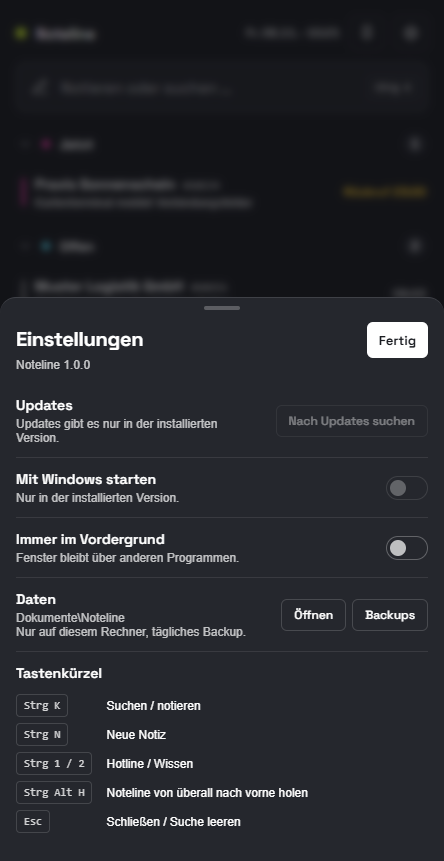
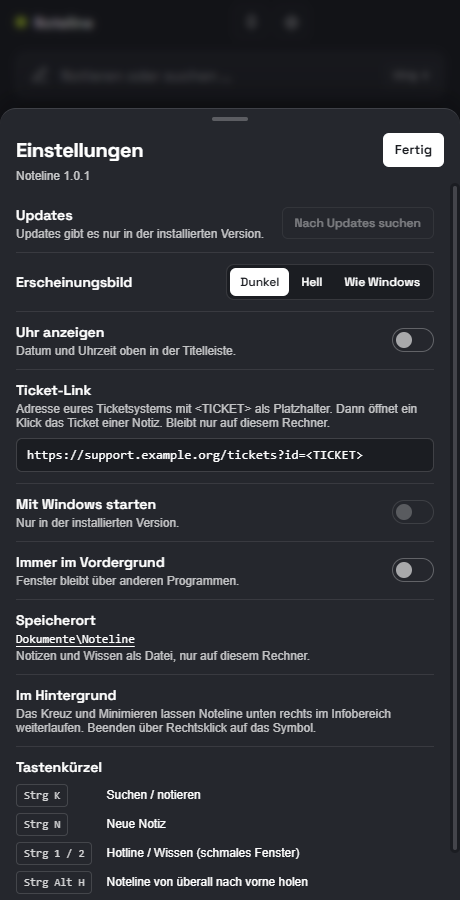
docs: README, Screenshots und Changelog für 1.1.0

diff --git a/scripts/screenshot.js b/scripts/screenshot.js
@@ -19,7 +19,7 @@ const demo = {
   version: 2,
   notizen: [
     n('d1', 'Praxis Sonnenschein', '#10234', 'Kartenterminal meldet Verbindungsfehler\nNeustart Konnektor besprochen', { prio: 'hoch', erstellt: h(8, 40), rueckruf: h(23, 0), erinnertFuer: h(23, 0) }),
-    n('d2', 'Muster Logistik GmbH', '#10251', 'Drucker im Lager druckt leere Seiten', { erstellt: h(9, 15) }),
+    n('d2', 'Muster Logistik GmbH', '#10251', 'Drucker im Lager druckt leere Seiten\nTreiber neu installiert, Testseite ok\nKunde meldet sich, falls es wieder auftritt', { erstellt: h(9, 15), telefon: '+49 123 4567890' }),
     n('d3', 'Beispiel & Söhne', '', 'Fragt nach Zugang für neue Mitarbeiterin', { erstellt: tag(-1, 14) }),
     n('d4', 'Café Morgenrot', '#10198', 'Wartet auf Rückmeldung vom Hersteller', { status: 'wartet', erstellt: tag(-2, 11) }),
     n('d5', 'Stadtbibliothek Nord', '#10177', 'Passwort zurückgesetzt, Anmeldung klappt', { status: 'erledigt', erstellt: tag(-1, 10) }),
@@ -38,16 +38,29 @@ const demo = {
 const ziel = path.join(__dirname, '..', 'docs');
 fs.mkdirSync(ziel, { recursive: true });
 
-for (const tab of ['hotline', 'wissen', 'einstellungen']) {
+// Name → Ansicht, Fenstergröße, Erscheinungsbild
+const AUFNAHMEN = [
+  { name: 'hotline', tab: 'hotline', groesse: '460x900', theme: 'dunkel' },
+  { name: 'wissen', tab: 'wissen', groesse: '460x900', theme: 'dunkel' },
+  { name: 'einstellungen', tab: 'einstellungen', groesse: '460x900', theme: 'dunkel' },
+  { name: 'breit', tab: 'notiz', groesse: '880x560', theme: 'dunkel' },
+  { name: 'breit-hell', tab: 'hotline', groesse: '880x560', theme: 'hell' },
+];
+const nur = process.argv.slice(2);
+
+for (const a of AUFNAHMEN.filter(x => !nur.length || nur.includes(x.name))) {
   const ordner = fs.mkdtempSync(path.join(os.tmpdir(), 'noteline-demo-'));
   try {
     fs.writeFileSync(path.join(ordner, 'daten.json'), JSON.stringify(demo));
-    const datei = path.join(ziel, `screenshot-${tab}.png`);
+    fs.writeFileSync(path.join(ordner, 'einstellungen.json'), JSON.stringify({ ticketLink: 'https://support.example.org/tickets?id=<TICKET>' }));
+    const datei = path.join(ziel, `screenshot-${a.name}.png`);
+    fs.rmSync(datei, { force: true }); // alte Aufnahme darf nicht als Erfolg zählen
     const r = spawnSync(electron, ['.'], {
       cwd: path.join(__dirname, '..'), stdio: 'inherit', timeout: 60000,
-      env: { ...process.env, NOTELINE_DATA_DIR: ordner, NOTELINE_SCREENSHOT: datei, NOTELINE_SCREENSHOT_TAB: tab },
+      env: { ...process.env, NOTELINE_DATA_DIR: ordner, NOTELINE_SCREENSHOT: datei, NOTELINE_SCREENSHOT_TAB: a.tab,
+        NOTELINE_SCREENSHOT_SIZE: a.groesse, NOTELINE_SCREENSHOT_THEME: a.theme },
     });
-    if (r.status !== 0 || !fs.existsSync(datei)) throw new Error(`Screenshot ${tab} fehlgeschlagen (Code ${r.status})`);
+    if (r.status !== 0 || !fs.existsSync(datei)) throw new Error(`Screenshot ${a.name} fehlgeschlagen (Code ${r.status})`);
     console.log('✓', path.relative(process.cwd(), datei));
   } finally {
     fs.rmSync(ordner, { recursive: true, force: true });

diff --git a/README.md b/README.md
@@ -13,9 +13,7 @@ Alles bleibt lokal auf dem eigenen Rechner.
 ![Windows](https://img.shields.io/badge/Windows-10%20%7C%2011-0078D4)
 [![Lizenz: MIT](https://img.shields.io/badge/Lizenz-MIT-bee600)](LICENSE)
 
-<img src="docs/screenshot-hotline.png" width="300" alt="Hotline-Ansicht mit Notizen in den Spuren Jetzt, Offen, Wartet und Erledigt">
-&nbsp;
-<img src="docs/screenshot-wissen.png" width="300" alt="Wissen-Ansicht mit Vorlage und kopierbaren Werten">
+<img src="docs/screenshot-breit.png" width="760" alt="Breite Ansicht: links die Notizen in den Spuren Jetzt, Offen, Wartet und Erledigt, rechts eine geöffnete Anrufnotiz">
 
 </div>
 
@@ -37,14 +35,20 @@ Gespräch zu verlieren, und das wichtigste Nachschlagewissen immer mit einem Kli
    nicht signiert ist: **Weitere Informationen → Trotzdem ausführen**.
 
 Danach aktualisiert sich Noteline selbst: Die App prüft jede Stunde auf neue Versionen, lädt sie im Hintergrund
-und installiert sie per Klick auf *Jetzt neu starten* oder beim nächsten Beenden.
+und meldet sich per Windows-Benachrichtigung. Installiert wird per Klick auf *Jetzt neu starten*, beim Beenden
+oder still in einer Pause, wenn Noteline im Infobereich liegt und der PC 10 Minuten nicht benutzt wurde.
+Was sich geändert hat, steht im [Changelog](CHANGELOG.md) und bei jedem [Release](https://github.com/pascatotalx/noteline/releases).
 
 ## Funktionen
 
 ### Hotline
-- **Sofort mitschreiben:** Tippen und Enter drücken. `Kunde: Stichpunkt` füllt den Kunden gleich mit aus.
+- **Sofort mitschreiben:** Tippen und Enter drücken. `Kunde: Stichpunkt` füllt den Kunden gleich mit aus,
+  Telefonnummern und `#Ticketnummern` landen automatisch in ihren Feldern.
+- **Ticket mit einem Klick öffnen:** Einmal die Ticket-Adresse eures Systems hinterlegen, dann wird jede
+  Ticketnummer zum Link.
 - **Spuren statt Textwüste:** *Jetzt*, *Offen*, *Wartet*, *Erledigt*, mit Priorität und Ticketnummer.
-- **Rückruf-Erinnerung:** Windows-Benachrichtigung zum fälligen Zeitpunkt. Ein Klick öffnet die Notiz.
+- **Rückruf-Erinnerung:** Windows-Benachrichtigung zum fälligen Zeitpunkt, die stehen bleibt, bis du sie
+  wegklickst. Ein Klick öffnet die Notiz.
 - **Suche** über Kunde, Ticket, Telefon und Text.
 
 ### Wissen
@@ -52,7 +56,20 @@ und installiert sie per Klick auf *Jetzt neu starten* oder beim nächsten Beende
 - **Vorlagen:** Ein Wert wie `ping <IP> -n 4` bekommt ein Eingabefeld und liefert den fertigen Befehl.
 
 ### Bedienung
-- Schmales Fenster am rechten Bildschirmrand, optional immer im Vordergrund, optional mit Windows starten.
+- **Passt sich dem Fenster an:** schmal und hoch mit Reitern, breit und niedrig mit zwei Spalten
+  (Notizen links, Wissen oder die offene Notiz rechts).
+- **Läuft im Hintergrund:** Das Kreuz und Minimieren schicken Noteline in den Infobereich unten rechts,
+  Erinnerungen laufen weiter. Beenden über Rechtsklick auf das Symbol.
+- **Hell, Dunkel oder wie Windows**, optional immer im Vordergrund, optional mit Windows starten.
+
+<p align="center">
+<img src="docs/screenshot-hotline.png" width="250" alt="Schmale Ansicht mit Notizliste">
+&nbsp;
+<img src="docs/screenshot-wissen.png" width="250" alt="Wissen-Ansicht mit Vorlage und kopierbaren Werten">
+&nbsp;
+<img src="docs/screenshot-einstellungen.png" width="250" alt="Einstellungen mit Updates, Erscheinungsbild und Ticket-Link">
+</p>
+<p align="center"><img src="docs/screenshot-breit-hell.png" width="600" alt="Breite Ansicht im hellen Erscheinungsbild"></p>
 
 | Kürzel | Aktion |
 |---|---|
@@ -66,7 +83,8 @@ und installiert sie per Klick auf *Jetzt neu starten* oder beim nächsten Beende
 
 Noteline ist für Notizen mit Kundendaten gemacht und behandelt sie entsprechend:
 
-- Alle Daten liegen **nur lokal** in `Dokumente\Noteline\` (`daten.json` und tägliche Backups der letzten 30 Tage).
+- Alle Daten liegen **nur lokal** in `Dokumente\Noteline\`: `daten.json` (Notizen und Wissen),
+  `einstellungen.json` und im Unterordner `Backups` automatische Tagessicherungen der letzten 30 Tage.
 - **Kein Upload, keine Cloud, keine Telemetrie.** Die einzige Verbindung nach außen ist die Update-Prüfung
   bei GitHub, und dabei werden keine Daten gesendet.
 - Deinstallieren löscht keine Daten.

diff --git a/CHANGELOG.md b/CHANGELOG.md
@@ -3,6 +3,32 @@
 Alle nennenswerten Änderungen an Noteline. Format nach [Keep a Changelog](https://keepachangelog.com/de/1.1.0/),
 Versionierung nach [Semantic Versioning](https://semver.org/lang/de/).
 
+## [1.1.0] – 2026-11-06
+
+Angepasst an die Arbeit neben Ticketsystem und Telefonie: breites, niedriges Fenster, schnelleres Erfassen,
+Noteline läuft dauerhaft im Hintergrund.
+
+### Neu
+- **Zweispaltige Ansicht** ab 760 px Breite: Notizen links, rechts das Wissen oder die geöffnete Notiz in voller
+  Höhe. Die Suche durchsucht beide Spalten.
+- **Telefon- und Ticketnummern werden erkannt:** `+49 123 4567890 Kunde #12345: Stichpunkt` füllt Telefon,
+  Ticket, Kunde und Text in einem Schritt.
+- **Ticket-Link:** In den Einstellungen die Adresse des Ticketsystems mit `<TICKET>` hinterlegen, dann öffnet
+  ein Klick das Ticket einer Notiz im Browser. Die Adresse bleibt nur auf diesem Rechner.
+- **Hell, Dunkel oder wie Windows** in den Einstellungen, inklusive Titelleiste.
+- **Läuft im Hintergrund:** Das Kreuz und Minimieren schicken Noteline in den Infobereich unten rechts. Klick
+  auf das Symbol öffnet es wieder, Rechtsklick bietet *Nach Updates suchen* und *Beenden*.
+- **Windows-Benachrichtigung bei neuen Updates.** Installiert wird per Klick, beim Beenden oder still in einer
+  Pause (Noteline im Infobereich, 10 Minuten keine Eingabe am PC). Danach startet Noteline wieder im Hintergrund.
+- Eigene, flache Titelleiste mit den Windows-Fensterknöpfen spart Platz.
+
+### Verbessert
+- Rückruf-Benachrichtigungen bleiben stehen, bis sie weggeklickt werden.
+- Leere Spuren werden ausgeblendet. Die Uhr ist ausblendbar (Standard: aus).
+- Einstellungen aufgeräumt: Der Speicherort ist ein anklickbarer Pfad, der Backup-Knopf entfällt. Die täglichen
+  Sicherungen laufen weiter unsichtbar im Unterordner `Backups`.
+- Einstellungen liegen jetzt in `einstellungen.json`. Die bisherige `fenster.json` wird übernommen.
+
 ## [1.0.1] – 2026-11-06
 
 ### Verbessert
@@ -30,5 +56,6 @@ Erste veröffentlichte Version. Neuaufbau des Prototyps „Hotline-Notizen“ na
 - Eine ins Fenster gezogene Datei ersetzt nicht mehr die App-Oberfläche.
 - Strengere Sicherheitseinstellungen (Sandbox, Content-Security-Policy ohne Inline-Skripte).
 
+[1.1.0]: https://github.com/pascatotalx/noteline/releases/tag/v1.1.0
 [1.0.1]: https://github.com/pascatotalx/noteline/releases/tag/v1.0.1
 [1.0.0]: https://github.com/pascatotalx/noteline/releases/tag/v1.0.0
